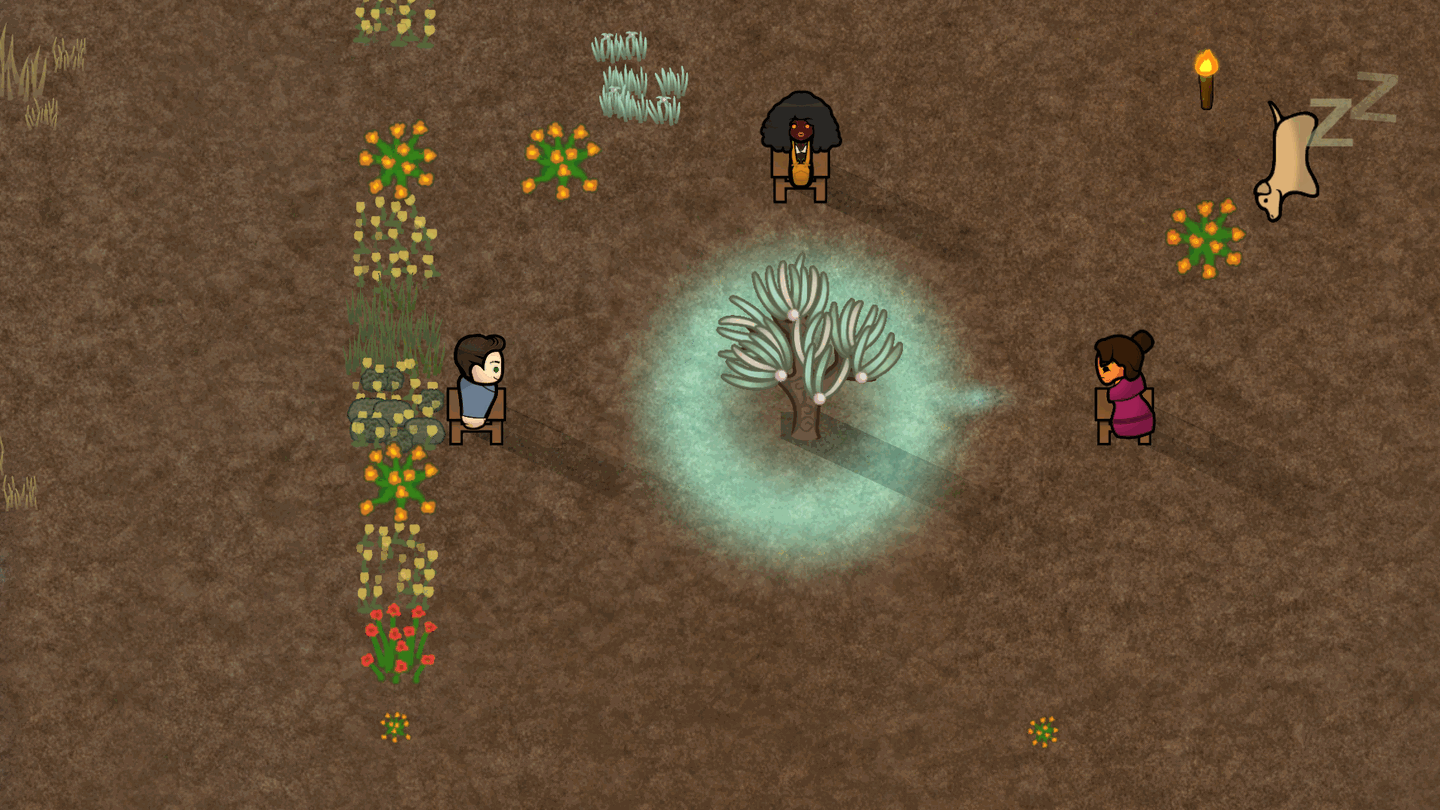
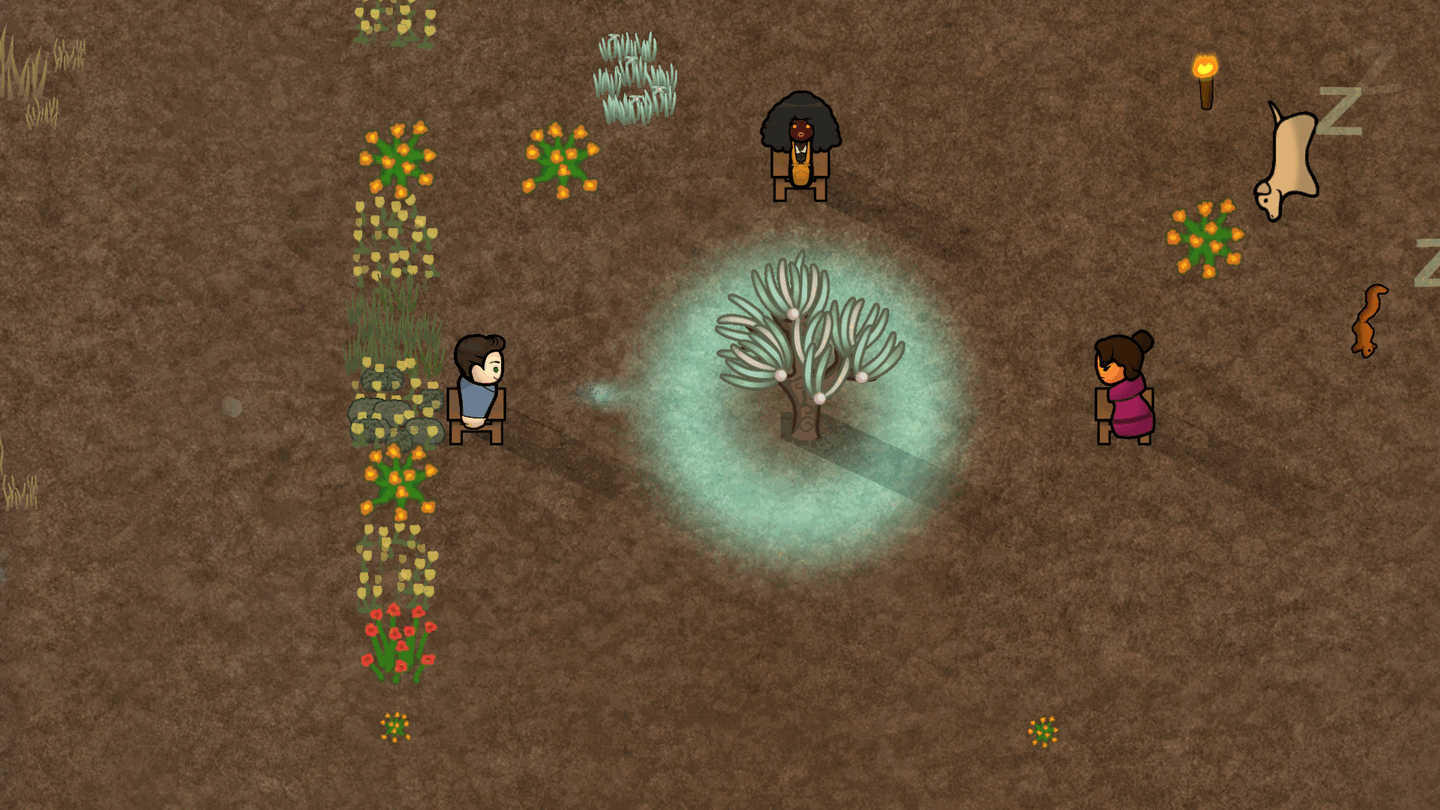
Gallery B: candidate recaptured (ticket 4ed5, squirrel in frame), STATUS

diff --git a/STATUS.md b/STATUS.md
@@ -25,7 +25,7 @@ remaining:
   - open: 8.f (audit replay 2026-11-16): sound, studio and removal replays done 2026-11-17 (see done line); nothing left here but the 1.7 pass and the gallery; gallery work resumes at shootGallery
   - done 2026-11-19: ticket 80f7 GREEN 1 of 1 (63 s) and scene B is a CANDIDATE (session verdict 4 of 5): Miel on the north seat now readable from the front (wrap, overalls, orange eyes), Nelim plum robe in profile east, Soren slate shirt and trousers west, glow and ring read, Shogun lying with Z top right; missing vs plan: peacock "Paon" and squirrel not in frame (asked PiT via TM, answer pending, not blocking), Shogun shows asleep; capture 1440 x 810 octree 256 colours (446 KB, true colours checked) in `Art/Gallery/4-candidate-noon.png` (index 4 of the final A to F order: A 1, C 2, D 3, B 4, E 5, F 6), no clean original kept (full-size gone like A and F, a refused image is replayed); run minified into Tests/Pickle/Evidence/gallery-b-noon-80f7; Prune-Evidence dry run: nothing prunable; next: scene E alone (same seat swap: Miel north seat, Nelim last to arrive at an east or west seat, decide at refile), then score-gallery and rate-gallery by the session once A, B, E, F are candidates
   - done 2026-11-19: ticket 492d GREEN 1 of 1 (45 s) and scene E is a CANDIDATE (session verdict 4.5 of 5): Soren slate shirt and trousers drawn (the `clothes worn ... logged` and draw-state log steps of B fix the bare torso of ff2e), Miel north seat in front view (orange eyes, wrap, overalls), Nelim plum robe east in profile, glow at its strongest, two lit torches, Shogun standing, ring and tree read; capture 1440 x 810 octree 256 colours (384 KB) in `Art/Gallery/5-candidate-dusk.png`, run minified in Tests/Pickle/Evidence/gallery-e-dusk-492d; E map = gallery-e (no sd.fa.movingvanillaeyes), Soren and Miel face parts dropped (lids, brows, mouth, eyeballs of the left-out mod); candidates now A 1, B 4, E 5, F 6; next: ticket 4ed5 (B replay with lying Paon and Noisette), then score-gallery and rate-gallery by the session
-  - waiting 2026-11-19: gallery B improvement, replay (label "gallery B alone, animals lie, replay of bd83", evidence Tests/Pickle/Inbox/gallery-b10): bd83 RED at the sit check ("after 9000 game ticks: 0 of 3 listeners sit in the ring", empty not-seated list, no probe line), same family as 6ab9 (11-18) which had no animal change, so suspected flaky order, not the `lies` steps; replayed once unchanged; if it fails again revert the two `lies` steps (Paon, Noisette) to the 80f7 form; B stays candidate (4-candidate-noon.png) either way; PiT answer: a standing animal wanders off (Shogun stays because it lies); PiT offers `the animal "X" is logged`
+  - done 2026-11-19: ticket 4ed5 GREEN (44 s, replay of bd83: the sit failure was a flake, the `lies` steps are fine): B recapture replaces the candidate `Art/Gallery/4-candidate-noon.png` (squirrel "Noisette" now in frame, lying with Z; peacock "Paon" STILL absent although lying, cause not found: PiT suspects the keep-out step name binding or a failed placement, PiT offers `the animal "X" is logged`; not worth another ticket, B stays 4 of 5); evidence Tests/Pickle/Evidence/gallery-b-noon-4ed5 (replaces 80f7); candidates A 1, B 4, E 5, F 6: score-gallery then rate-gallery by the session now
   - open: protocols read 2026-11-18 (f8fee9c): when all gallery captures are candidates (4 or more at score-gallery), run `rate-gallery` itself with the Skill tool (rule of 2026-11-19, AUDIT 9.e bis, GALLERY.md), no question to the owner; Preview at mountPreview uses the gallery block with `Art/Gallery-clean/` originals (STYLE_RIMWORLD.md)
   - open: gallery prep (Audit via TM, 2026-10-18): shooting plan and scenarios A dawn, E dusk, F night written in `05-workshop-captures.feature` (@wip, NOT played, steps resolve per Check-Steps), noon scenario gained a peacock and a labrador, subtitles drafted in `PUBLICATION.md`; shot list reviewed 2026-10-18 (listener facing fixed: z grows north, seat z 155 faces South, z 149 faces North; zoom 6 on dawn and night; dusk and night subtitles reworded; rated 4 of 5, not played); to do at shootGallery: play, open each capture against the plan, confirm animal kinds and `Face_Stars`, ask NPT (via TM) for an animal-facing step if backs show; 9a/9b at prepareRelease (the mod adds no props, apparel or hairstyles: nothing for `GALLERY-PROPS.md` beyond "seen in a capture" for what gets played); no game run before shootGallery
   - open: 1.7 diagnostic closed 2026-11-17 (first run ff31: 18 of 24, six reds; cause = spawn cell of the plain `exists` step, not the mod, not 1.7; fixed by PiT step `exists near (x, z)`, 38f99e28; replays 7409 and b702 green, 0de3 green after the test-side fix);
